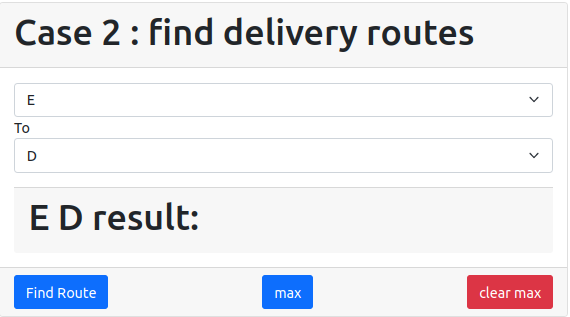
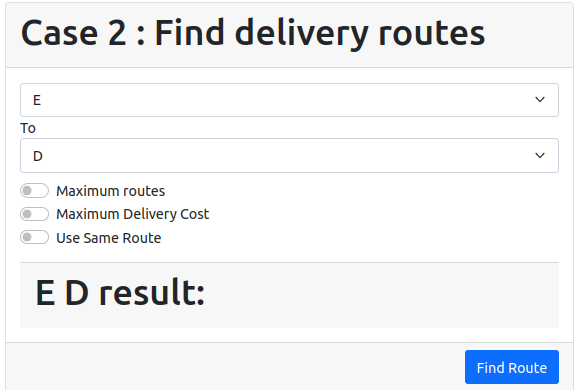
Ui fixed

diff --git a/README.md b/README.md
@@ -34,7 +34,7 @@ Choose Start place and End place
 
 ![alt_text](https://raw.githubusercontent.com/aungkhantzaw777/amity/main/assets/case2.1.png)
 
-After that, Click "max" button check maximum
+After that, Click "Maximum Routes" button check maximum
 
 ![alt_text](https://raw.githubusercontent.com/aungkhantzaw777/amity/main/assets/case2.2.png)
 
